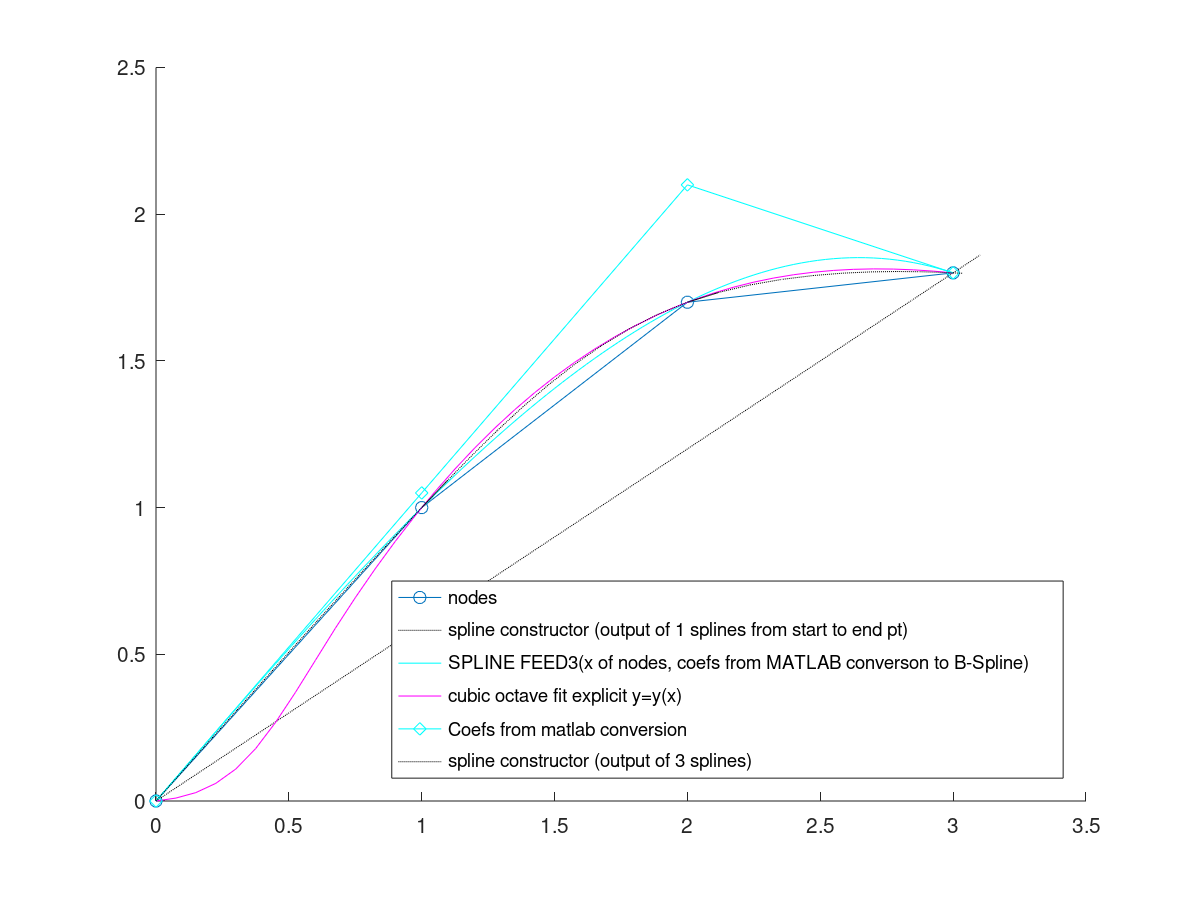
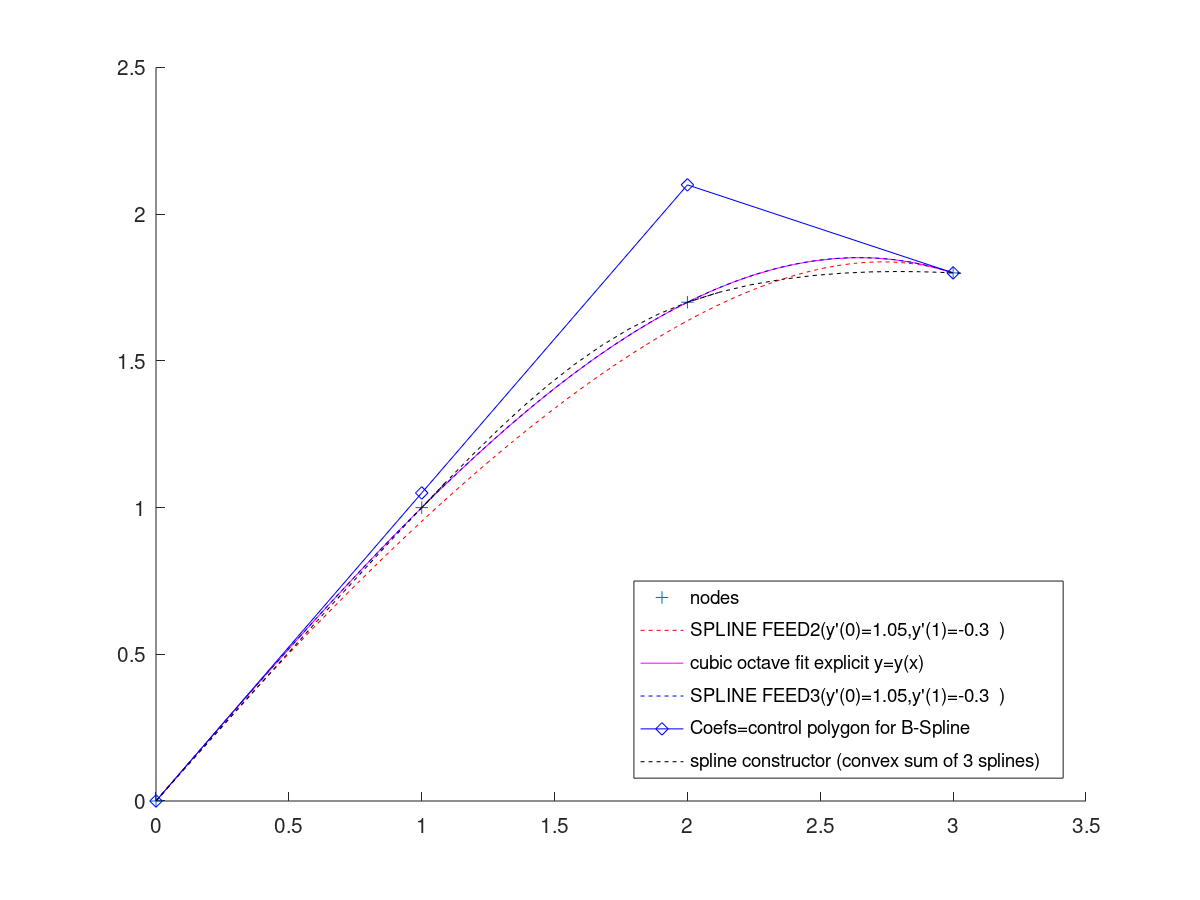
Add files via upload
Code fixed to get proper boundary conditions.

diff --git a/linuxCNCsplineInterpretation.m b/linuxCNCsplineInterpretation.m
@@ -1,29 +1,34 @@
-% Test of some routines from linuxCNC source code to interpolate splines
-% Check of spline construction integrity
-% Spline from P0 to P3 with interior points P1,P2 as waypoint/node/knot
-%
-% SPLINE_FEED with 6 input arguments require as input
-% the control points of a B-Spline. P0 and P3 are as well
-% use as first and last control points, however, only
-% [P1,P2,P3] are passed to SPLINE_FEED as arguments.
-
+% Test of FEED routine from linuxCNC source to interpolate splines
+% ----------------------------------------------------------------------
+% SPLINE_FEED(P1x, P1y, P2x, P2y, P3x, P3y) with inputs
+% P1 and P2: interior control points of cubic spline
+% P3: end point of spline feed.
+% P0=[x0,y0]: start point stored in class properties [_pos_x,_pos_y]
+% P1-P0 defines slope at start point as (y1-y0)/(x1-x0) at start
+% P3-P2 defines slope at end point as (y3-y2)/(x3-x2) at end
+% ----------------------------------------------------------------------
+% SPLINE_FEED(P1x, P1y, P2x, P2y) with inputs
+% P1: interior control point of quadratic spline
+% P2: end point of spline feed.
+% P0=[x0,y0]: start point, stored in class property [_pos_x,_pos_y]
+% P1-P0 defines slope at start point as (y1-y0)/(x1-x0) at start
+% P2-P1 defines slope at end point  as (y2-y1)/(x2-x1) at end
+% ----------------------------------------------------------------------
 % P1 and P2 define the shape of the spline
-% There are four shape parameters P1x, P1y, P2x, P2y
-% Likely the x-grid is always uniform from 
-% P0123 = P0+[0 1/3 2/3 1]*(P3-P0)];
-
-% x0,y0 Start point, stored in class property _pos_x and _pos_y
-%
-% Spline defition in Bezier format. Arguments of SPLINE_FEED 
+% There are four shape parameters P1x, P1y, P2x, P2y for cubic spline
+% The x-grid can but does not have to be uniform, e.g. 
+% P0123 = P0+[0 1/3 2/3 1]*(P3-P0)] can be used.
+% ----------------------------------------------------------------------
+% Spline defition is in Bezier format. Arguments of SPLINE_FEED 
 % y1 first coeff of cubic B-Spline
 % y2 second coeff of cubic B-Spline
 % y3 third coeff of cubic B-Spline
-
-% x0,y0 first control point on outer polygon = Start point P0
-% x1,y1 second control point on outer polygon = P1
-% x2,y2 third control point on outer polygon  = P2
-% x3,y3 last control point on outer polygon = End point P3
-
+% ----------------------------------------------------------------------
+% P0=[x0,y0] first control point of cubic B-Spline
+% P1=[x1,y1] first control point of cubic B-Spline
+% P2=[x2,y2] first control point of cubic B-Spline
+% P3=[x3,y3] first control point of cubic B-Spline
+% ----------------------------------------------------------------------
 clear all; close all;
 mySpline = linuxCNC;
 
@@ -43,81 +48,94 @@ P0123=[[x0; y0] P123];
 %         1.0, 1.7, 1.8]; 
 %P0123=[[x0; y0] P123];
 
+% Create double multiplicity for start and end points
+% to add constraints for y'(x)=dy/dx at start and end
+% 
+con.xc = P0123(1,[1,1,end,end]);% constraint locations
+con.yc = [1.05 P0123(2,[1,end]) -0.3]; % constraint values for y,y',y''
+con.cc = [0 1 1 0;1 0 0 1]; %constrain [y(start) 'y(start) y(end) y'(end)]
 
-% do a spline interpolation separately for x and y
-t=linspace(0,1,length(P0123));
-tt=linspace(0,1,length(P0123)*10+1);
-ppx=splinefit(t,P0123(1,:), t ,"order", 3); 
-ppy=splinefit(t,P0123(2,:), t ,"order", 3); 
-xxp=ppval(ppx,  tt);
-yyp=ppval(ppy,  tt);
+tt=linspace(0,1,length(P0123)*10+1); % uniform interpolation grid
 
 % use x as parameter/breaks and fit a spline to y data
-pp=splinefit(P0123(1,:), P0123(2,:),t ,"order", 3); 
+% regrid to uniform grid
+pp=splinefit(con.xc, con.yc,con.xc ,"order", 3,'constraints',con); 
 xx=tt*(P0123(1,end)-P0123(1,1))+P0123(1,1);
 yy=ppval(pp,xx);
-% from octave
-% pp =  [ 1.69  0.38 0.01 0.0; % first segment is almost linear
-%        -2.60  2.08 0.91 1.37;
-%         0.05 -0.52 1.44 0.58]
+yy(1);
+yy(end);
+dd=diff(yy)./diff(xx);
+%dd(1) = 1.0497 converges to 1.05 for dense [0 1] grid
+%dd(end)=-0.26653 converges to -0.3for dense [0 1] grid
+% from splinefit including proper boundary constraints
+% pp =  [-0.05 0 1.05 0];
 
 % matlab comparison
 % qq= spline(P0123(1,:), P0123(2,:));
-% also with breaks = [0 1 2 3 4];
+% with breaks at t= [0 1 2 3];
 % will give other coefficients than octave splinefit
 qq.coefs =  [-0.05  0.00 1.05 0.0; % first segment is almost linear
-        -0.05 -0.15 0.90 1.0;
-        -0.05 -0.30 0.45 1.7];
+        -     0.05 -0.15 0.90 1.0;
+             -0.05 -0.30 0.45 1.7];
 
 % Conversion to B-Spline using Matlab
 % bpp = fn2fm(qq, 'B-', 0.1)
 % will change the breaks to knots with 4-fold multiplicity at start and end pt
 % bpp.knots = [0 0 0 0 3 3 3 3]
-bpp.coefs = [0 1.05 2.1 1.8] ; %the corners of the control polygon y-coordinates
+bpp.coefs   =[0 1.05 2.1 1.8] ; % the corners of the control polygon y-coordinates
+% for      x=[0 1.00 2.0 3.0]   % the diff gives the slope at start and end points
 [xb,yb]=mySpline.SPLINE_FEED3(1, bpp.coefs(2), 2, bpp.coefs(3), 3, bpp.coefs(4) ); 
+db=diff(yb)./diff(xb);
+%db(1) = 1.05 = (y1-y0)/(x1-x0) at start
+%db(end)=-0.3 = (y3-y2)/(x3-x2) at end
 
 % For a set of G5 codes
-% Several splines in a row        
+% Several splines in a row  
+% This constructs a convex superposition
+% but does not respect the boundary conditions!     
 [x4, y4]= mySpline.construct_spline(P0123);
 
-% We want only one spline segment between start and endpt
+% We acwant only one spline segment between start and endpt
 [x, y]= mySpline.construct_spline([P0123(:,1) P0123(:,4)]);
   
          
-ctrlPt(:,1)=P0123(:,1);       
-ctrlPt(:,2)=[1; 2];   
-ctrlPt(:,3)=[1.05; 2.1];   
-ctrlPt(:,4)=P0123(:,4);
-         
-[xq,yq]=mySpline.SPLINE_FEED2(ctrlPt(1,2), ctrlPt(2,2),   ctrlPt(1,4),  ctrlPt(2,4)  );
-[xc,yc]=mySpline.SPLINE_FEED3(ctrlPt(1,2), ctrlPt(2,2),   ctrlPt(1,3),  ctrlPt(2,3),  ctrlPt(1,4),ctrlPt(2,4) ); 
+ctrl3Pt(:,1)=P0123(:,1);       
+ctrl3Pt(:,2)=[1; 1.05];   
+ctrl3Pt(:,3)=[2; 2.1];   
+ctrl3Pt(:,4)=P0123(:,4);
+%diff(ctrl3Pt(2,:))./diff(ctrl3Pt(1,:))
+ctrl2Pt(:,1)=P0123(:,1);       
+ctrl2Pt(:,2)=[2; 2.1];     
+ctrl2Pt(:,3)=P0123(:,4);
+%diff(ctrl2Pt(2,:))./diff(ctrl2Pt(1,:))      
+[xq,yq]=mySpline.SPLINE_FEED2(ctrl2Pt(1,2), ctrl2Pt(2,2),   ctrl2Pt(1,3),  ctrl2Pt(2,3)  );
+[xc,yc]=mySpline.SPLINE_FEED3(ctrl3Pt(1,2), ctrl3Pt(2,2),   ctrl3Pt(1,3),  ctrl3Pt(2,3),  ctrl3Pt(1,4), ctrl3Pt(2,4) ); 
 
 figure; hold on;
-plot(P0123(1,:), P0123(2,:),'-o');
+plot(P0123(1,:), P0123(2,:),'+');
 
-%plot(xq,yq,'--r');
-plot(x,y,':k');
-plot(xb,yb,'-c');
-%plot(xc,yc,'-g');
+plot(xq,yq,'--r');
+%plot(x,y,':k');
+%plot(xb,yb,'-b');
+
 plot(xx,yy,'-m');
+plot(xc,yc,'--b');
 %plot(xxp,yyp,'-r');
-plot(P0123(1,:),bpp.coefs ,'-dc');
+plot(P0123(1,:),bpp.coefs ,'-db');
 
 for k=1:3
- plot(x4(k,:),y4(k,:),':k');
+ plot(x4(k,:),y4(k,:),'--k');
 end
 legend({'nodes',  ...
-'spline constructor (output of 1 splines from start to end pt)', ...
-'SPLINE FEED3(x of nodes, coefs from MATLAB converson to B-Spline)', ...
+"SPLINE FEED2(y\'(0)=1.05,y\'(1)=-0.3  )", ...
 'cubic octave fit explicit y=y(x)', ...
-'Coefs=control polygon from matlab conversion to B-Spline', 'spline constructor (output of 3 splines)',}, 'location','southeast'  );
+"SPLINE FEED3(y\'(0)=1.05,y\'(1)=-0.3  )", ...
+'Coefs=control polygon for B-Spline', 'spline constructor (convex sum of 3 splines)',}, 'location','southeast'  );
 
-% conversion works only on
+% conversion works for
 % parameterspace t=[0..1]
-% transformation x=x(t)
-% to be implemented
-linuxCNC.kanonical2bernstein(qq.coefs)
-linuxCNC.bernstein2kanonical(ctrlPt)
+linuxCNC.kanonical2bernstein(pp.coefs)
+linuxCNC.bernstein2kanonical([3.1 -6.3 3.15 0])
 
 
 

diff --git a/linuxCNC.m b/linuxCNC.m
@@ -21,25 +21,31 @@ end %properties
 
 methods (Static=true)
   function bersteinCoeff=kanonical2bernstein(kanonicalCoeff)
-  M=[1 -3 3 -1;
-     0 3 -6 3;
-     0 0 3 -3;
-     0 0 0  1];
-  bersteinCoeff=((M*(kanonicalCoeff)')');
-end
+  M=[1 -3 3 -1; %1-3t+3t^2- t^3
+     0 3 -6 3;  %  3t-6t^2+3t^3
+     0 0 3 -3;  %     3t^2-3t^3
+     0 0 0  1]; %          3t^3
+  bersteinCoeff=((M*kanonicalCoeff')');
+  end
   function kanonicalCoeff=bernstein2kanonical(bersteinCoeff)
   Mi=[3 3 3 3;
-     0 1 2 3;
-     0 0 1 3;
-     0 0 0 3]/3;
-  kanonicalCoeff=((Mi*(bersteinCoeff)')');
+      0 1 2 3;
+      0 0 1 3;
+      0 0 0 3]/3;
+  kanonicalCoeff=((Mi*bersteinCoeff')');
   end
 end %end static methods
 
 methods 
+  
+% [x,y]=SPLINE_FEED2( obj, x1,  y1,  x2,  y2) 
+% End point = [x2,y2]
+% Start point = [obj._pos_x,obj._pos_y]
+% Tanget slope is (y1-y0)/(x1-x0) at start
+% Tanget slope is (y2-y1)/(x2-x1) at end
 function [x,y]=SPLINE_FEED2( obj, x1,  y1,  x2,  y2) 
-     x0 = obj._pos_x;
-     y0 = obj._pos_y;
+     x0 = obj._pos_x; %start point
+     y0 = obj._pos_y; %start point
     % Tanget slope is (y1-y0)/(x1-x0) at start
     % Tanget slope is (y2-y1)/(x2-x1) at end
     fprintf(stderr, "SPLINE_FEED(quadratic): %8.4f %8.4f %8.4f %8.4f %8.4f %8.4f\n",
@@ -48,16 +54,24 @@ function [x,y]=SPLINE_FEED2( obj, x1,  y1,  x2,  y2)
     for i=0:100 % do 100 straight line per segment  
        t = i / 100.;
        % quadratic Bezier base
-       t2 = t*t;
-       t1 = 2*t*(1-t);
-       t0 = (1-t)*(1-t);
-       x(i+1,1) = x0*t0 + x1*t1 + x2*t2;
-       y(i+1,1) = y0*t0 + y1*t1 + y2*t2;
+       % Bk2 = (2 k)t^k*(1-t)^(2-k)
+       B22 = t*t;        % dB22/dt=2*t=         [0   2]     for t=[0 1]
+       B12 = 2*t*(1-t);  % dB12/dt=2(1-2*t)=    [2  -2]  for t=[0 1]
+       B02 = (1-t)*(1-t);% dB02/dt=-2*(1-t)=    [-2 -0]  for t=[0 1]
+       x(i+1,1) = x0*B02 + x1*B12 + x2*B22;%= 2*[(x1-x0) (x2-x1)]
+       y(i+1,1) = y0*B02 + y1*B12 + y2*B22;%= 2*[(y1-y0) (y2-y1)]
+       %dx/dy=(dx/dt)/(dy/dy)=(y1-y0)/(x1-x0) at t=0
+       %dx/dy=(dx/dt)/(dy/dy)=(y2-y1)/(x2-x1) at t=1
       % EBo -- replace 12345 with *whatever* gives us the line_number
       % STRAIGHT_FEED(12345, x,y, _pos_z, _pos_a, _pos_b, _pos_c, _pos_u, _pos_v, _pos_w);
     end
 end
 
+% [x,y]=SPLINE_FEED2( obj, x1,  y1,  x2,  y2, x3, y3) 
+% End point = [x3,y3]
+% Start point = [obj._pos_x,obj._pos_y]
+% Tanget slope is (y1-y0)/(x1-x0) at start
+% Tanget slope is (y3-y2)/(x3-x2) at end
 function [x,y]=SPLINE_FEED3( obj, x1,  y1,  x2,  y2,  x3,  y3) 
      x0 = obj._pos_x;
      y0 = obj._pos_y;
@@ -71,13 +85,23 @@ function [x,y]=SPLINE_FEED3( obj, x1,  y1,  x2,  y2,  x3,  y3)
       % bi,n = (n k)*t^i*(1-t)^(n-i)
       % start point interpolation property: start at t1(0)=1
       % end   point interpolation property: end   at t3(0)=1
+      % Bk3 = (3 k)t^k*(1-t)^(3-k)
        t = i / 100;
-       t3 = t*t*t;            % t3(0)=0[3x] and                 t3(1)=1[3] start point
-       t2 = 3*t*t*(1-t);      % t3(0)=0[2x] and t3(1)=0[1x]                             t2(1/2)=3/8
-       t1 = 3*t*(1-t)*(1-t);  % t3(0)=0[1x] and t3(1)=0[2x]                             t2(1/2)=3/8
-       t0 = (1-t)*(1-t)*(1-t);%             and t3(1)=0[3x] and t3(0)=1[3] endpoint     t2(1/2)=3/8
-       x(i+1,1) = x0*t0 + x1*t1 + x2*t2 + x3*t3;
-       y(i+1,1) = y0*t0 + y1*t1 + y2*t2 + y3*t3;
+       B33 = t*t*t;            % t3(0)=0[3x] and                 t3(1)=1[3] start point
+       B23 = 3*t*t*(1-t);      % t3(0)=0[2x] and t3(1)=0[1x]                             t2(1/2)=3/8
+       B13 = 3*t*(1-t)*(1-t);  % t3(0)=0[1x] and t3(1)=0[2x]                             t2(1/2)=3/8
+       B03 = (1-t)*(1-t)*(1-t);%             and t3(1)=0[3x] and t3(0)=1[3] endpoint     t2(1/2)=3/8
+       x(i+1,1) = x0*B03 + x1*B13 + x2*B23 + x3*B33;
+       y(i+1,1) = y0*B03 + y1*B13 + y2*B23 + y3*B33;
+       
+       %B33/dt=3*t^2 =        [0    3]     for t=[0 1] B33'= 3*[B22]=3*t^2 
+       %B13/dt=3t*(2-3*t)=    [0   -3]     for t=[0 1] B13'= 3*[B02-B12]=3t*(2-3*t)
+       %B23/dt=3*(1-3t)(1-t)= [3    0]     for t=[0 1] B23'= 3*[B12-B22]=3*(1-t)(1-3*t)
+       %B03/dt=-3(1-t)^2=     [-3   0]     for t=[0 1] B03'= 3*[-B02]=-3(1-t)^2
+       %dx/dy=(dx/dt)/(dy/dy)=(y1-y0)/(x1-x0) at t=0
+       %dx/dy=(dx/dt)/(dy/dy)=(y3-y2)/(x3-x2) at t=1
+       
+       
       % EBo -- replace 12345 with *whatever* gives us the line_number
       % STRAIGHT_FEED(12345, x,y, _pos_z, _pos_a, _pos_b, _pos_c, _pos_u, _pos_v, _pos_w);
     end
